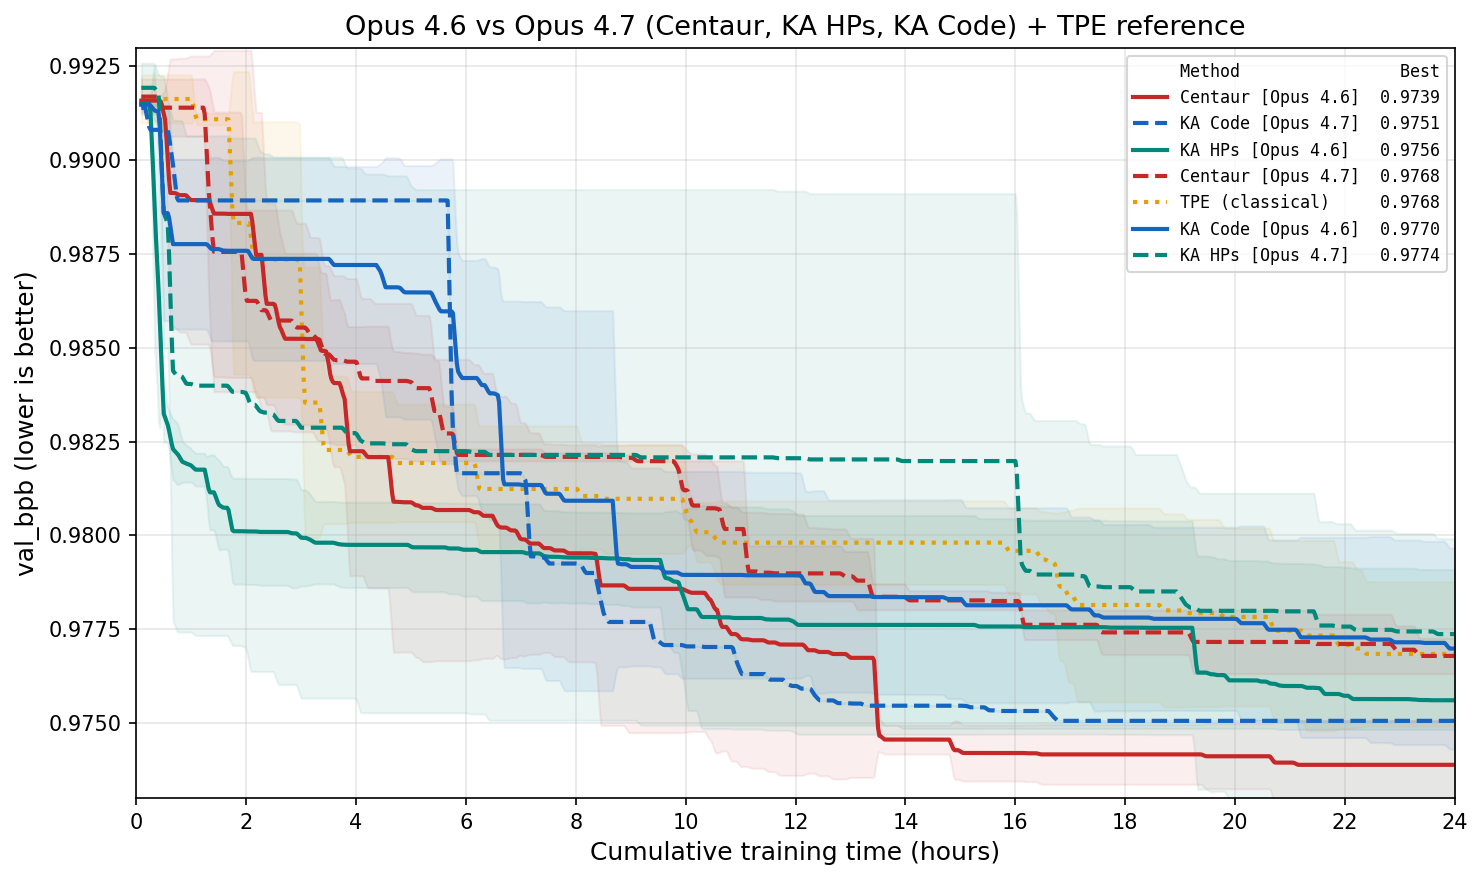
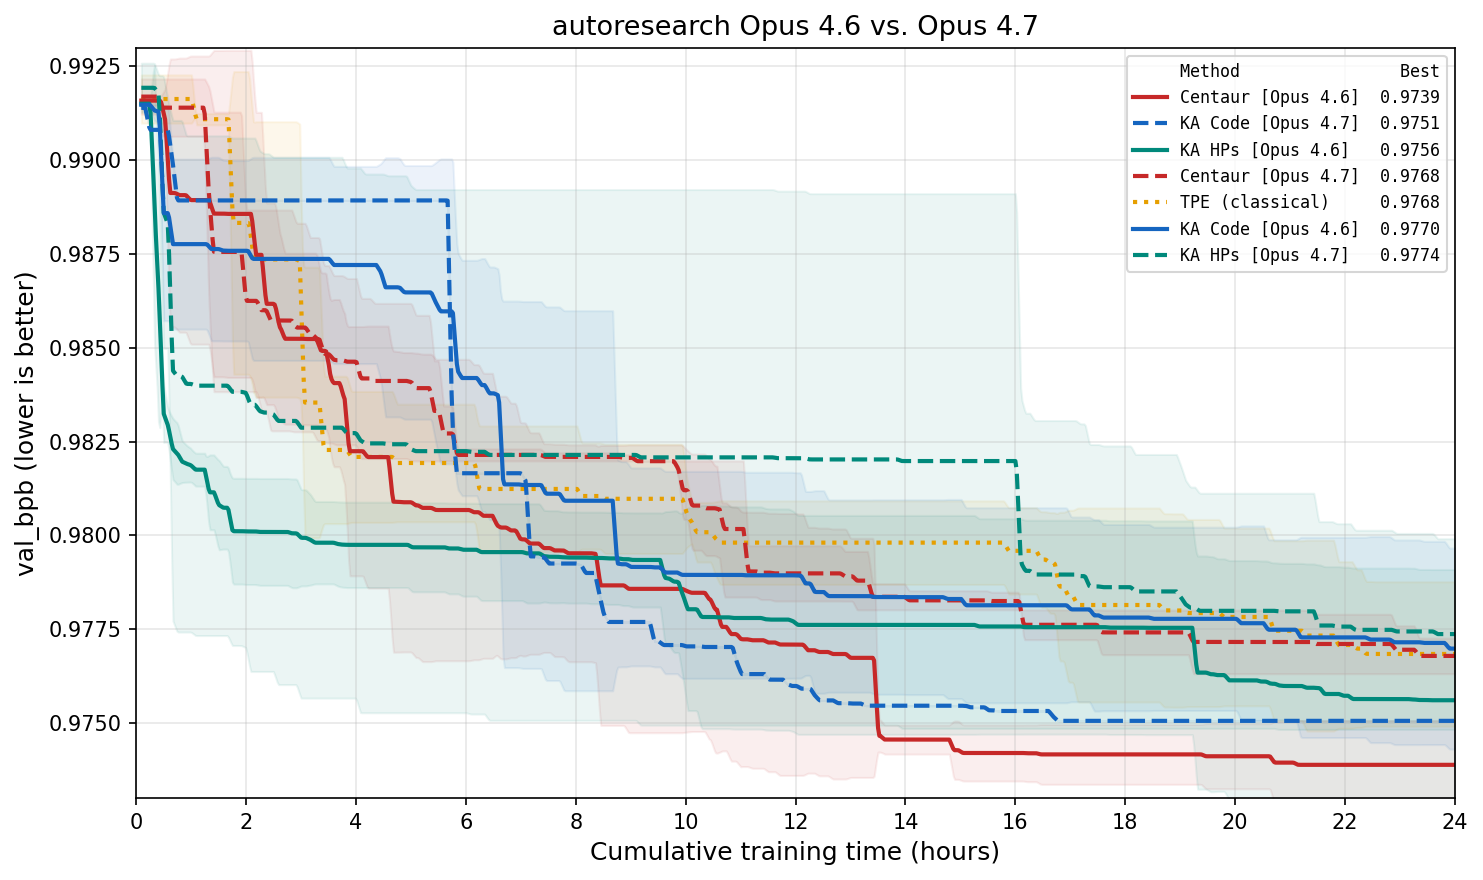
Plot title: autoresearch Opus 4.6 vs. Opus 4.7

Changed region(s): [[0.3102, 0.0, 0.6824, 0.0614], [0.7134, 0.0, 0.8375, 0.0614], [0.2481, 0.0, 0.3102, 0.0614]]

diff --git a/scripts/plot_opus46_vs_opus47.py b/scripts/plot_opus46_vs_opus47.py
@@ -78,7 +78,7 @@ def main():
         results_dir=RESULTS_BASE,
         backends=build_backends(),
         output_path=output_path,
-        title="Opus 4.6 vs Opus 4.7 (Centaur, KA HPs, KA Code) + TPE reference",
+        title="autoresearch Opus 4.6 vs. Opus 4.7",
         ylim=(0.973, 0.993),
         max_bands=7,
     )
